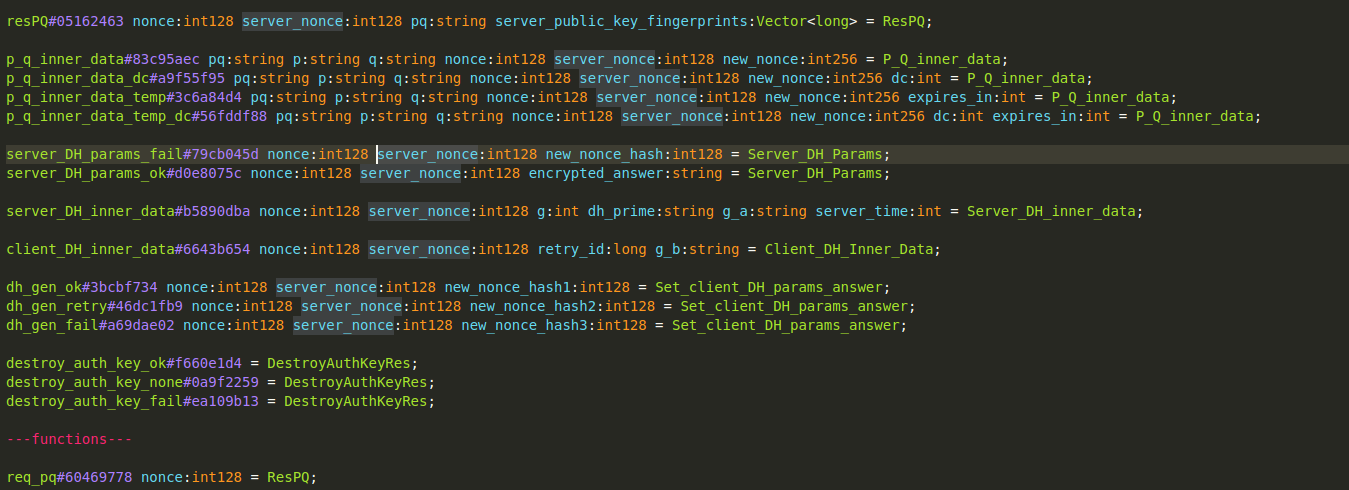
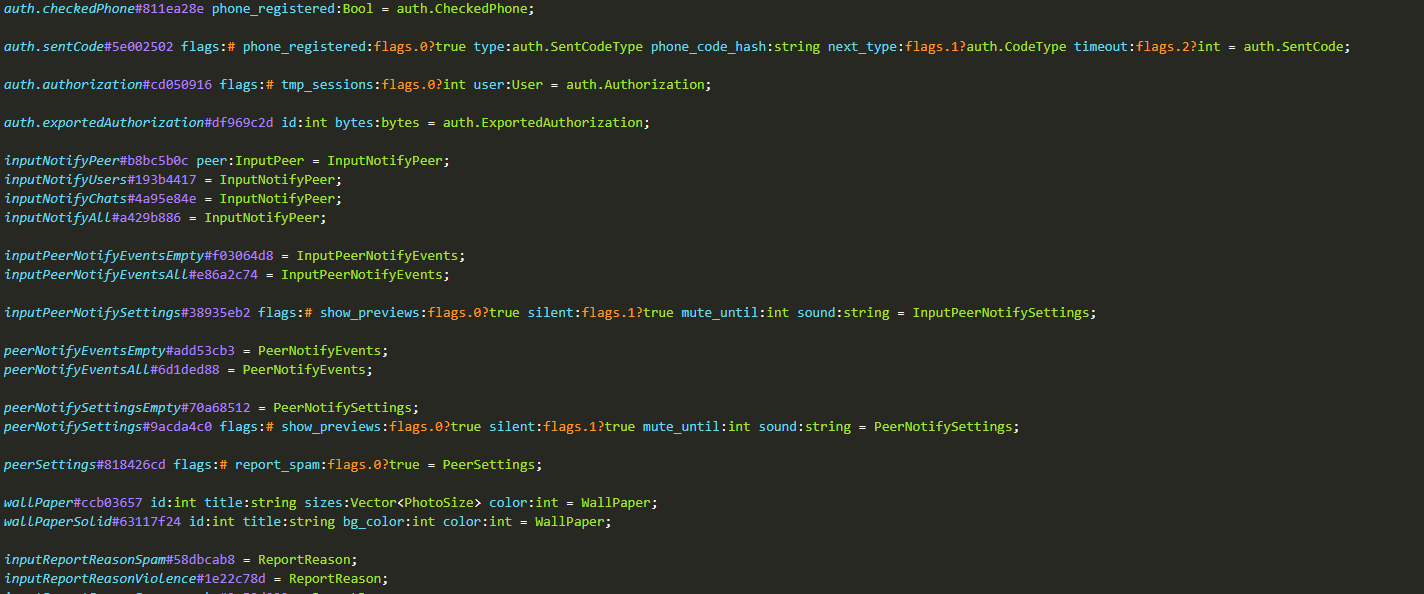
fix: change colors, change regexp formuls

Changed region(s): [[0.0, 0.0, 0.9652, 1.0]]

diff --git a/CHANGELOG.md b/CHANGELOG.md
@@ -6,4 +6,12 @@ Check [Keep a Changelog](http://keepachangelog.com/) for recommendations on how 
 
 ## [Unreleased]
 
-- Initial release
+## [0.1.0] - 2020-12-12
+### Changed
+- Colors
+- Regexp formuls
+- Code image
+
+## [0.0.1] - 2020-12-12
+### Added
+- Init project
